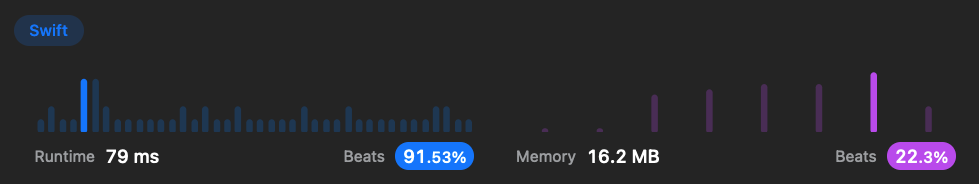
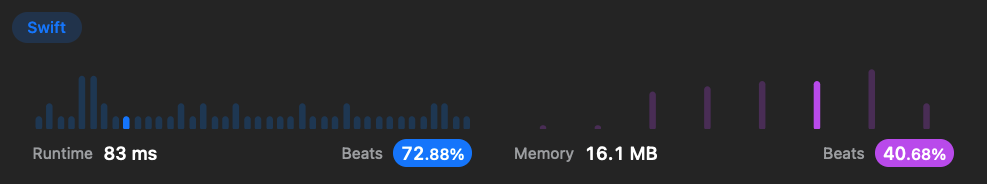
797

diff --git a/LeetCode.playground/Pages/797. All Paths From Source to Target .xcplaygroundpage/Contents.swift b/LeetCode.playground/Pages/797. All Paths From Source to Target .xcplaygroundpage/Contents.swift
@@ -1,10 +1,41 @@
 /*:
- ## Breath First Search
- ### Time: O(N)
+ ## Backtracking
+ ### Time: O(N*2^N)
  ### Space: O(N)
  ![submission](1.png)
  */
 class Solution {
+    func allPathsSourceTarget(_ graph: [[Int]]) -> [[Int]] {
+        guard !graph.isEmpty else { return [] }
+        
+        let target = graph.count - 1
+        
+        var stack: [Int] = []
+        var result: [[Int]] = []
+        
+        func dfs(n: Int) {
+            guard n != target else {
+                result.append(stack + [target])
+                return
+            }
+            for i in graph[n] {
+                stack.append(n)
+                dfs(n: i)
+                stack.removeLast()
+            }
+        }
+        dfs(n: 0)
+        return result
+    }
+}
+
+/*:
+ ## Breath First Search
+ ### Time: O(N*2^N)
+ ### Space: O(N)
+ ![submission](2.png)
+ */
+class Solution2 {
     func allPathsSourceTarget(_ graph: [[Int]]) -> [[Int]] {
         var queue = [(n: Int, path: [Int])]()
         var target = graph.count - 1
@@ -33,18 +64,18 @@ class Solution {
     }
 }
 
-let s = Solution().allPathsSourceTarget
+let s2 = Solution2().allPathsSourceTarget
 
-s([[1,2],[3],[3],[]])
-s([[4,3,1],[3,2,4],[3],[4],[]])
+s2([[1,2],[3],[3],[]])
+s2([[4,3,1],[3,2,4],[3],[4],[]])
 
 /*:
  ## Depth First Search
- ### Time: O(N)
+ ### Time: O(N*2^N)
  ### Space: O(N)
- ![submission](2.png)
+ ![submission](3.png)
  */
-class Solution2 {
+class Solution3 {
     func allPathsSourceTarget(_ graph: [[Int]]) -> [[Int]] {
         var target = graph.count - 1
         var ans = [[Int]]()
@@ -69,7 +100,7 @@ class Solution2 {
     }
 }
 
-let s2 = Solution2().allPathsSourceTarget
+let s3 = Solution3().allPathsSourceTarget
 
-s2([[1,2],[3],[3],[]])
-s2([[4,3,1],[3,2,4],[3],[4],[]])
+s3([[1,2],[3],[3],[]])
+s3([[4,3,1],[3,2,4],[3],[4],[]])
